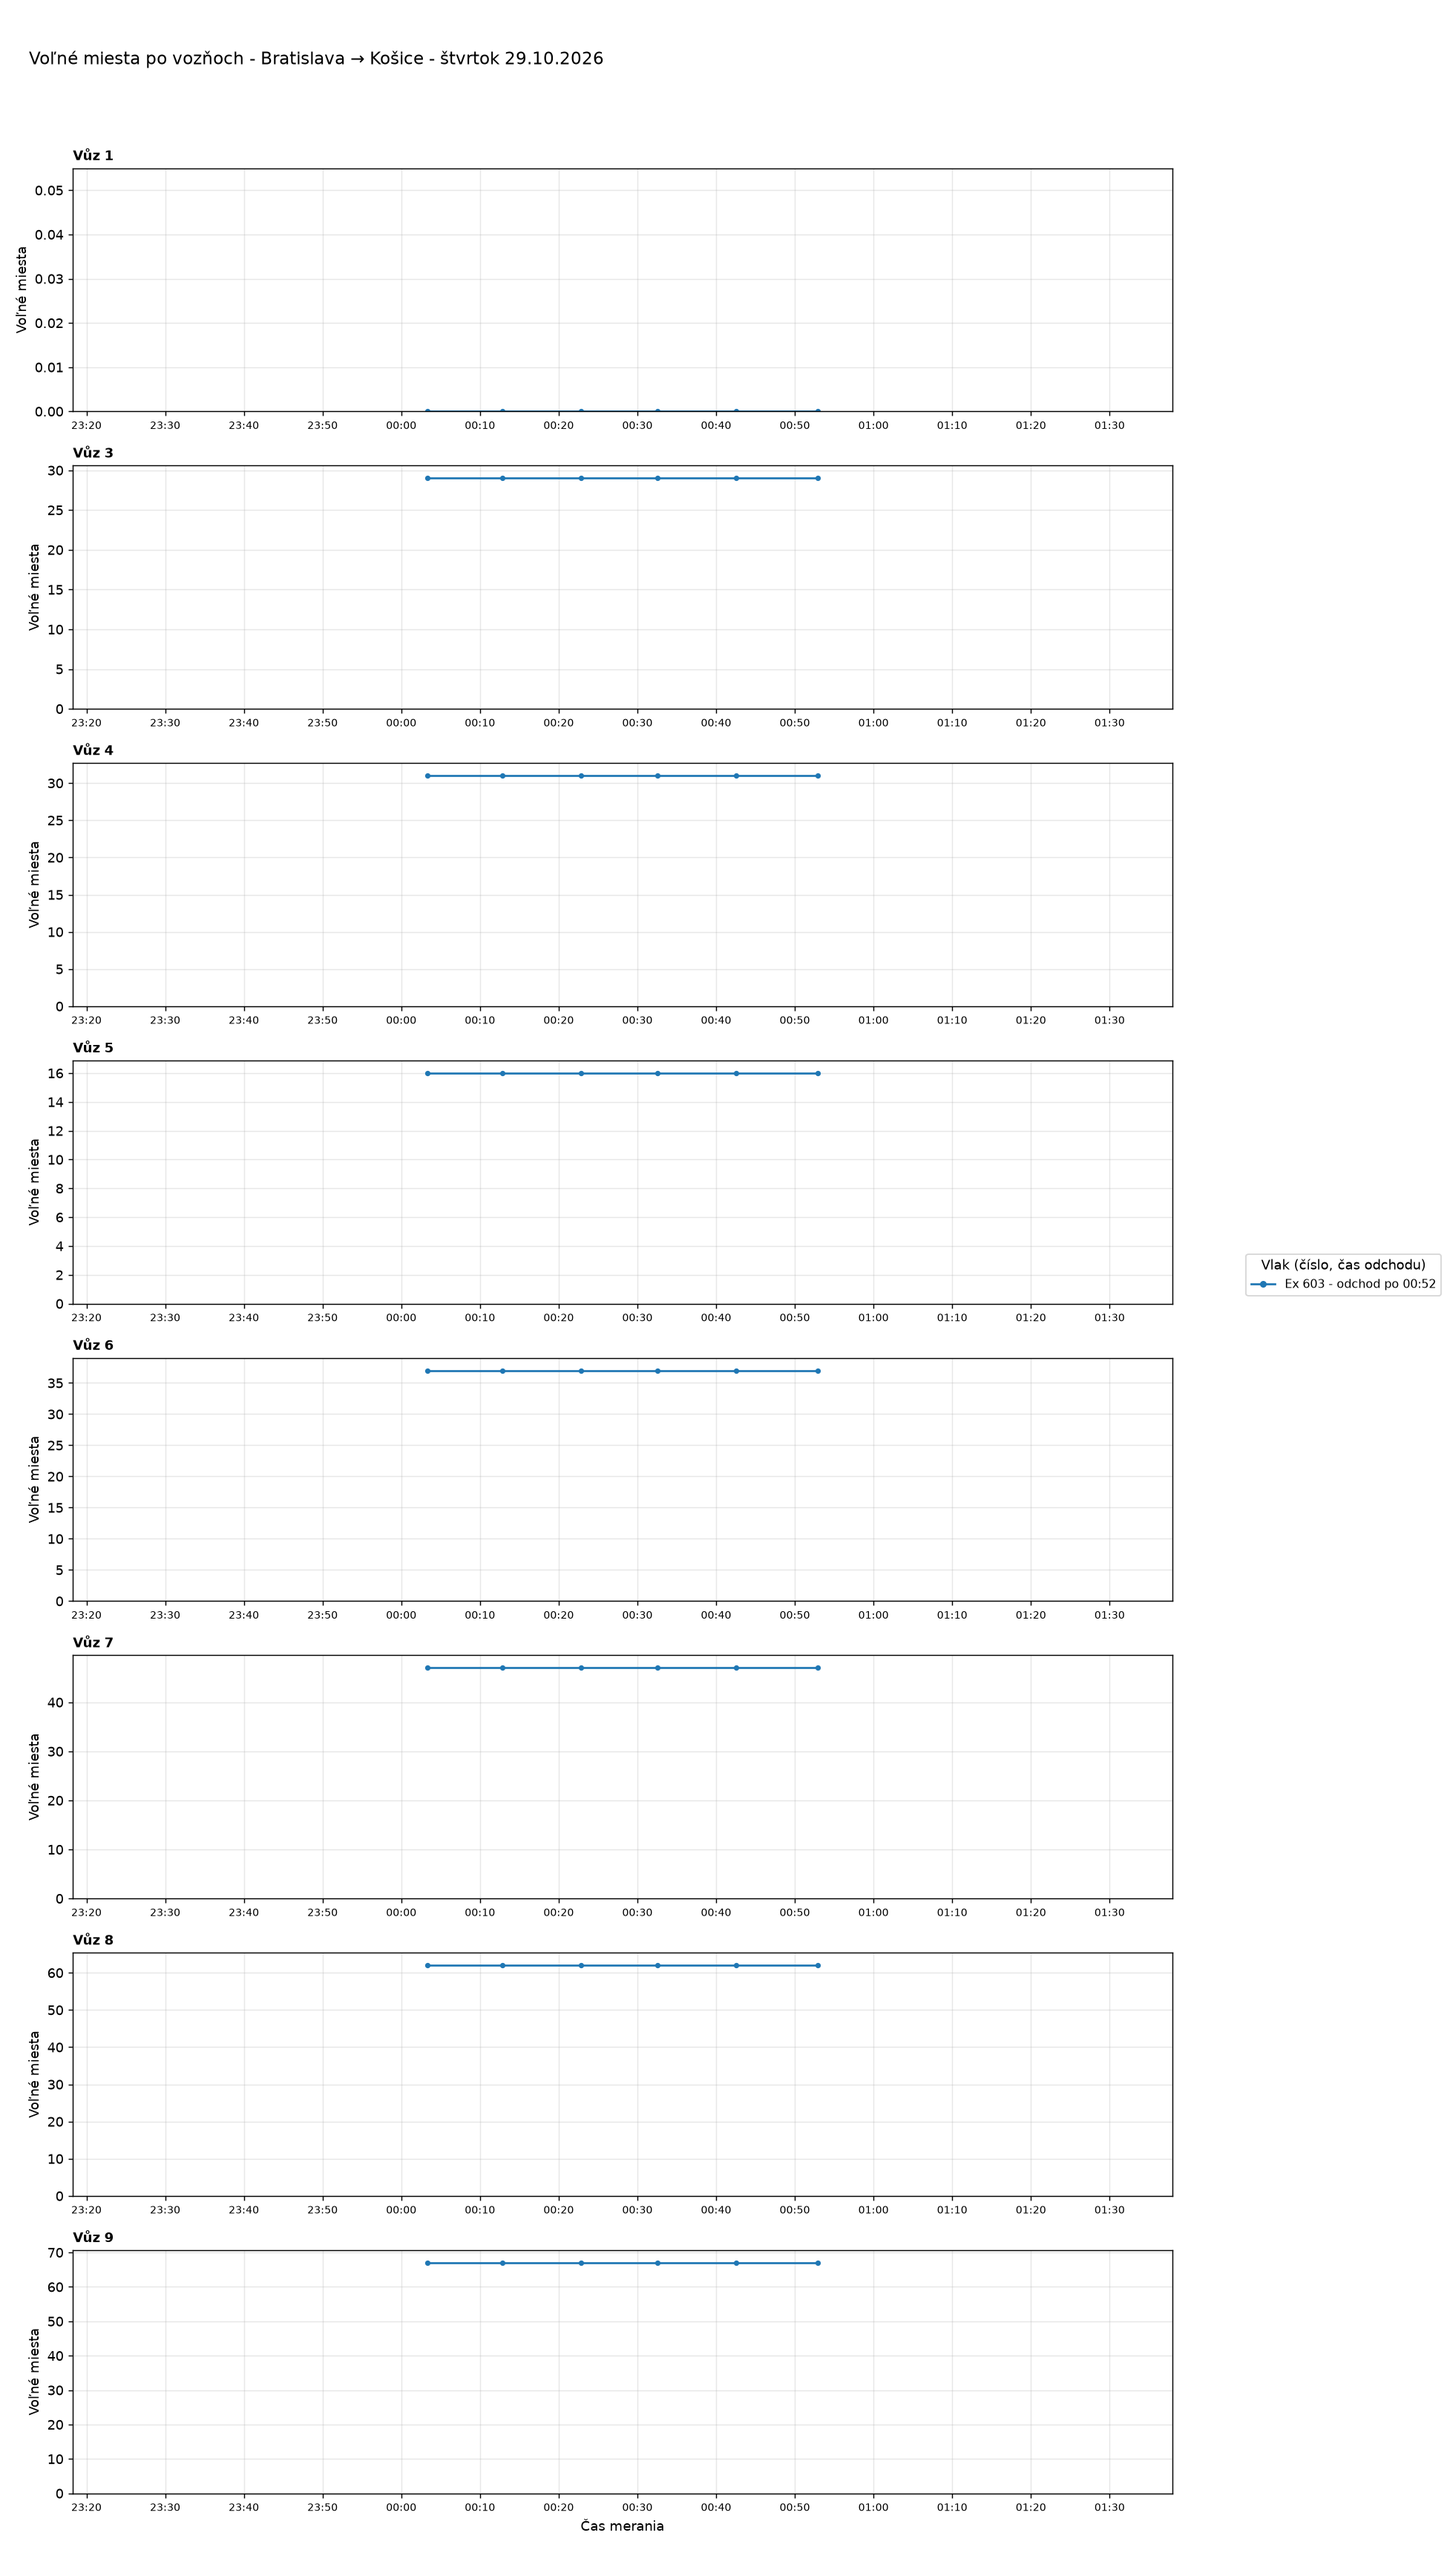
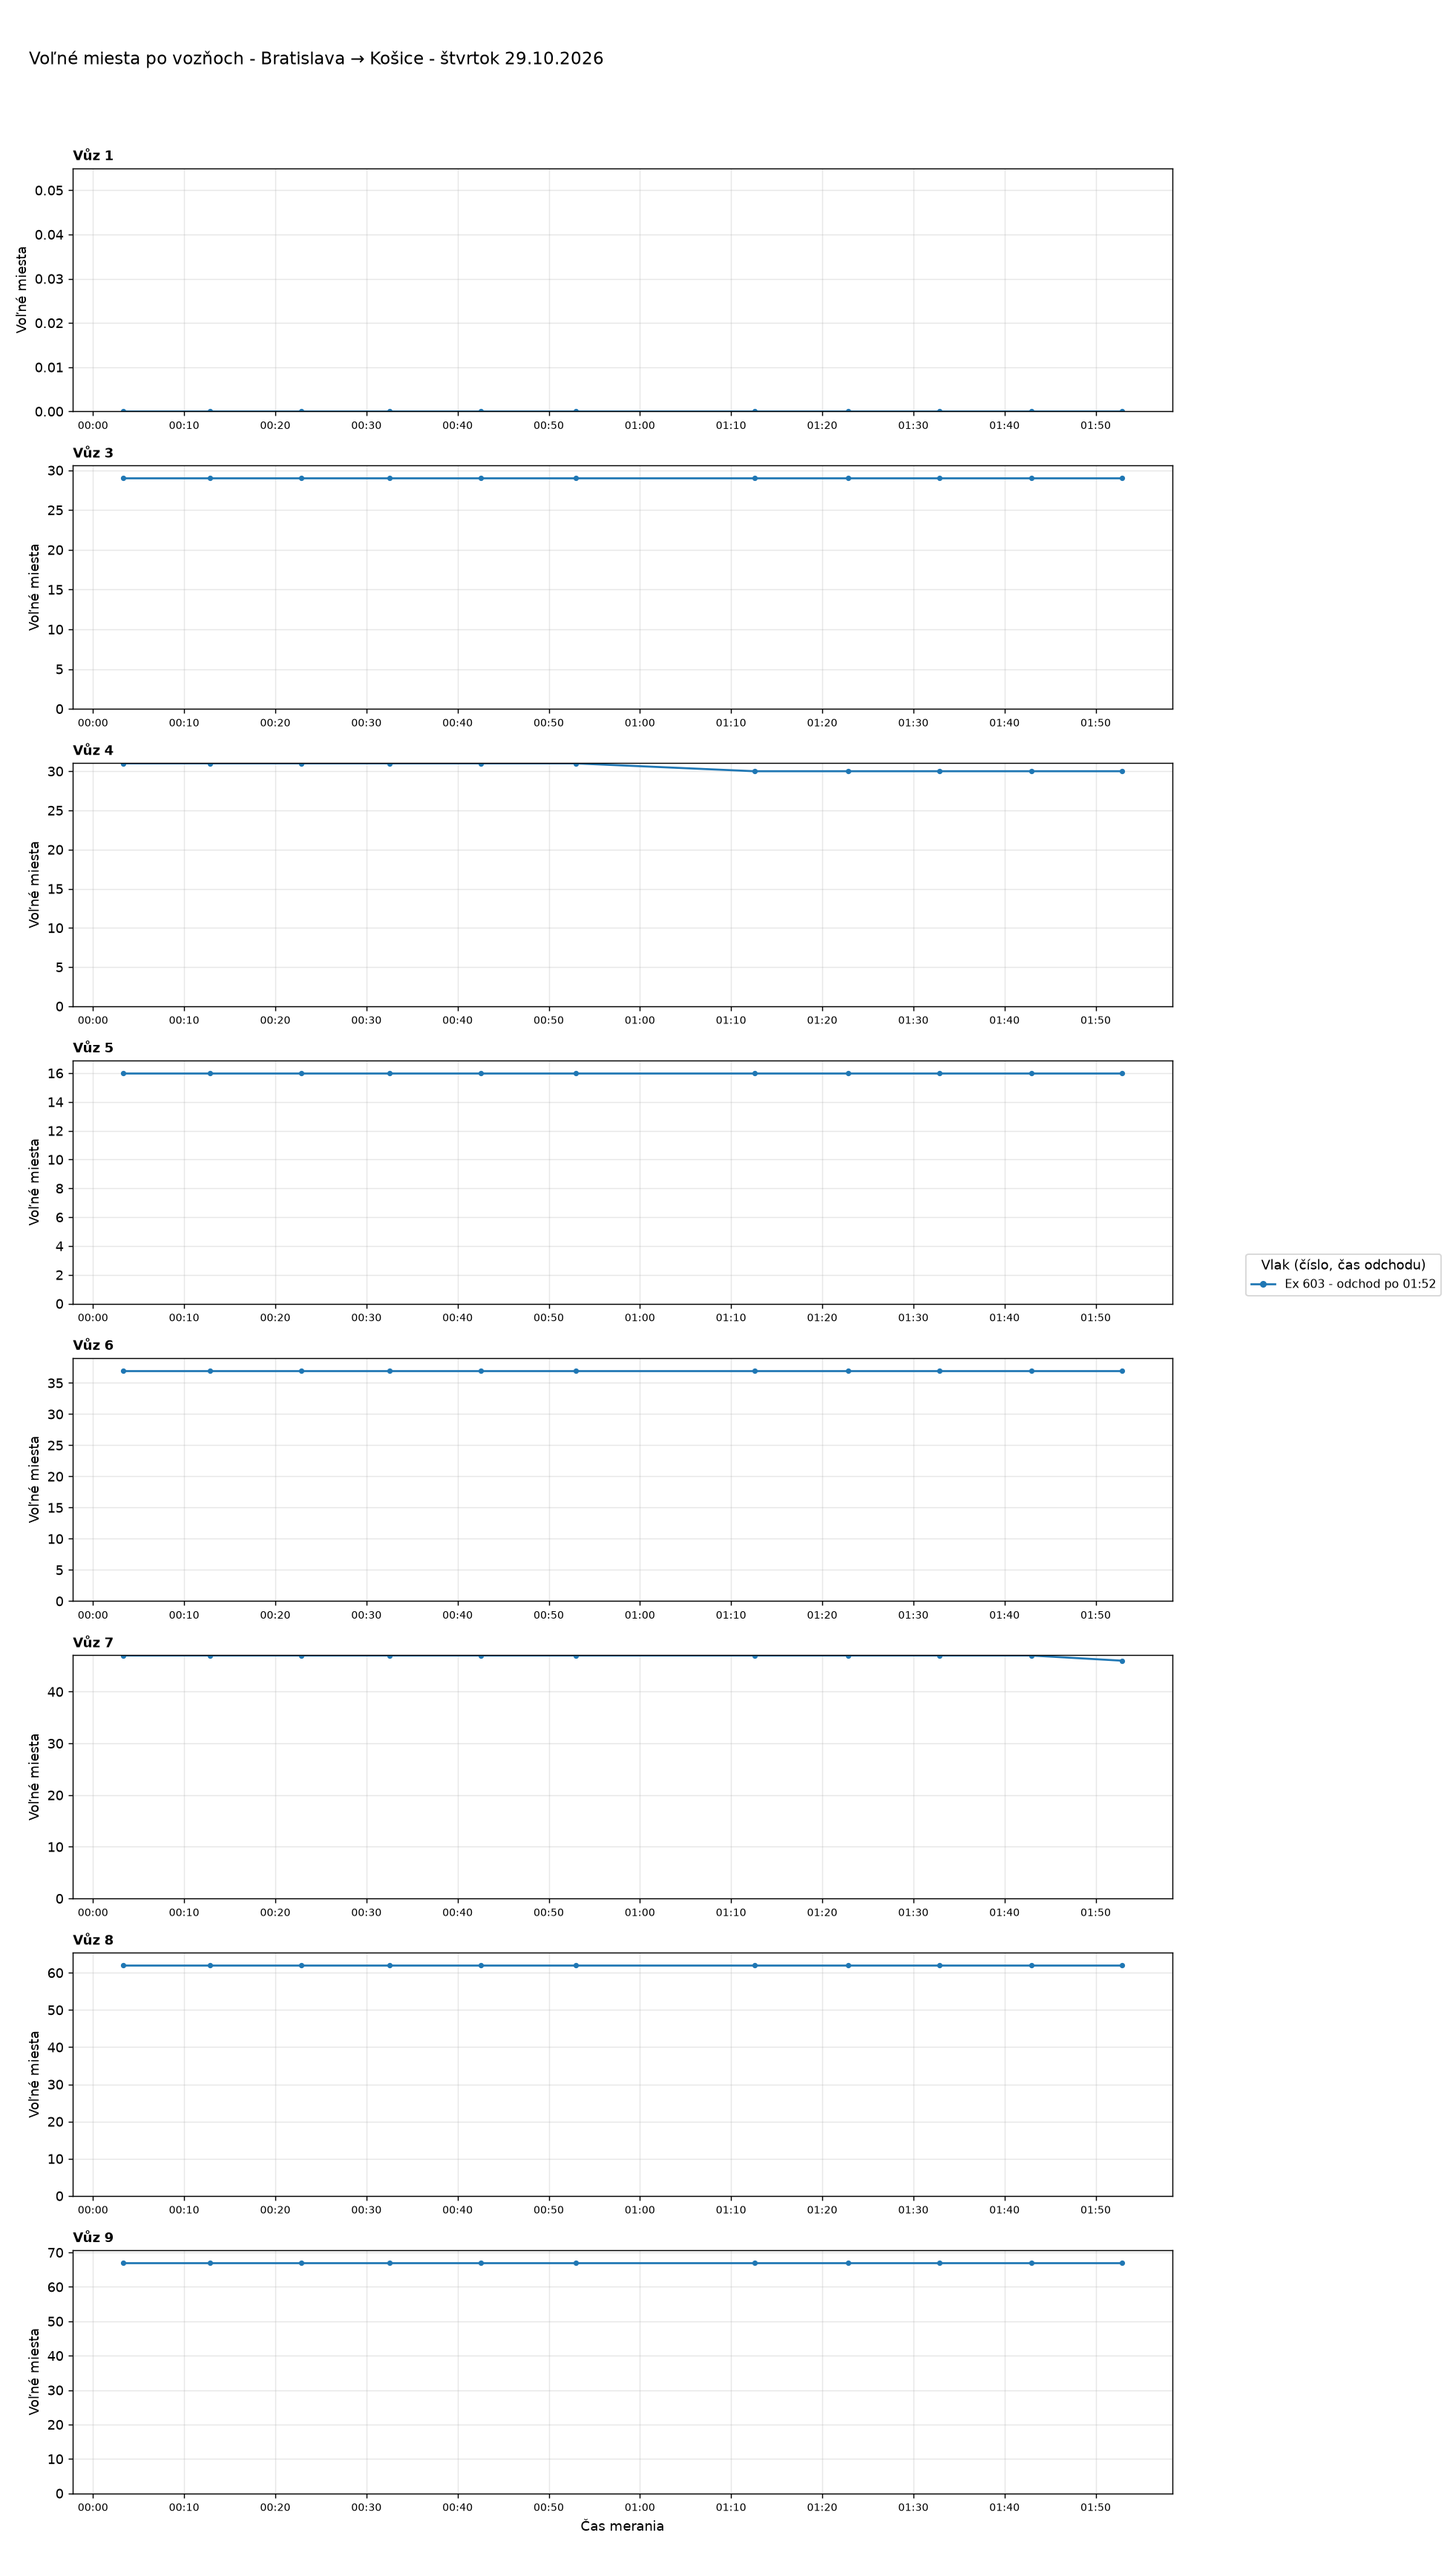
Aktualizácia grafov 2026-10-29 02:04

Changed region(s): [[0.4923, 0.2803, 0.5231, 0.3114], [0.4308, 0.2803, 0.4615, 0.3114]]

diff --git a/index.html b/index.html
@@ -37,7 +37,7 @@ details.trasa>summary{cursor:pointer;font-weight:600;font-size:1.1rem;padding:8p
 <body>
 <main>
 <h1>Voľné miesta vo vlakoch</h1>
-<p class="muted">Posledné meranie: 29.10.2026 00:53 ·
+<p class="muted">Posledné meranie: 29.10.2026 01:53 ·
 <a href="data/obsadenost_data.csv">stiahnuť dáta (CSV)</a></p>
 <nav class="nav"><a href="#suhrn">Súhrn</a><a href="#statistiky">Štatistiky</a><a href="#historia">História grafov</a></nav>
 
@@ -46,9 +46,9 @@ details.trasa>summary{cursor:pointer;font-weight:600;font-size:1.1rem;padding:8p
 <div class="tablewrap"><table>
 <thead><tr><th>Deň</th><th>Trasa</th><th>Meraní</th><th>Vlakov</th><th>Čas meraní</th></tr></thead>
 <tbody>
-<tr><td><a href="#dBA-VR-2026-10-29">štvrtok 29.10.2026</a></td><td>Bratislava → Vrútky</td><td>6</td><td>1</td><td>00:01-00:51</td></tr>
-<tr><td><a href="#dBA-KE-2026-10-29">štvrtok 29.10.2026</a></td><td>Bratislava → Košice</td><td>6</td><td>1</td><td>00:03-00:52</td></tr>
-<tr><td><a href="#dKE-BA-2026-10-29">štvrtok 29.10.2026</a></td><td>Košice → Bratislava</td><td>5</td><td>1</td><td>00:04-00:53</td></tr>
+<tr><td><a href="#dBA-VR-2026-10-29">štvrtok 29.10.2026</a></td><td>Bratislava → Vrútky</td><td>12</td><td>1</td><td>00:01-01:51</td></tr>
+<tr><td><a href="#dBA-KE-2026-10-29">štvrtok 29.10.2026</a></td><td>Bratislava → Košice</td><td>11</td><td>1</td><td>00:03-01:52</td></tr>
+<tr><td><a href="#dKE-BA-2026-10-29">štvrtok 29.10.2026</a></td><td>Košice → Bratislava</td><td>9</td><td>1</td><td>00:04-01:53</td></tr>
 <tr><td><a href="#dBA-VR-2026-10-28">streda 28.10.2026</a></td><td>Bratislava → Vrútky</td><td>148</td><td>16</td><td>00:03-23:51</td></tr>
 <tr><td><a href="#dVR-BA-2026-10-28">streda 28.10.2026</a></td><td>Vrútky → Bratislava</td><td>65</td><td>13</td><td>08:02-20:22</td></tr>
 <tr><td><a href="#dBA-KE-2026-10-28">streda 28.10.2026</a></td><td>Bratislava → Košice</td><td>66</td><td>12</td><td>07:46-23:52</td></tr>
